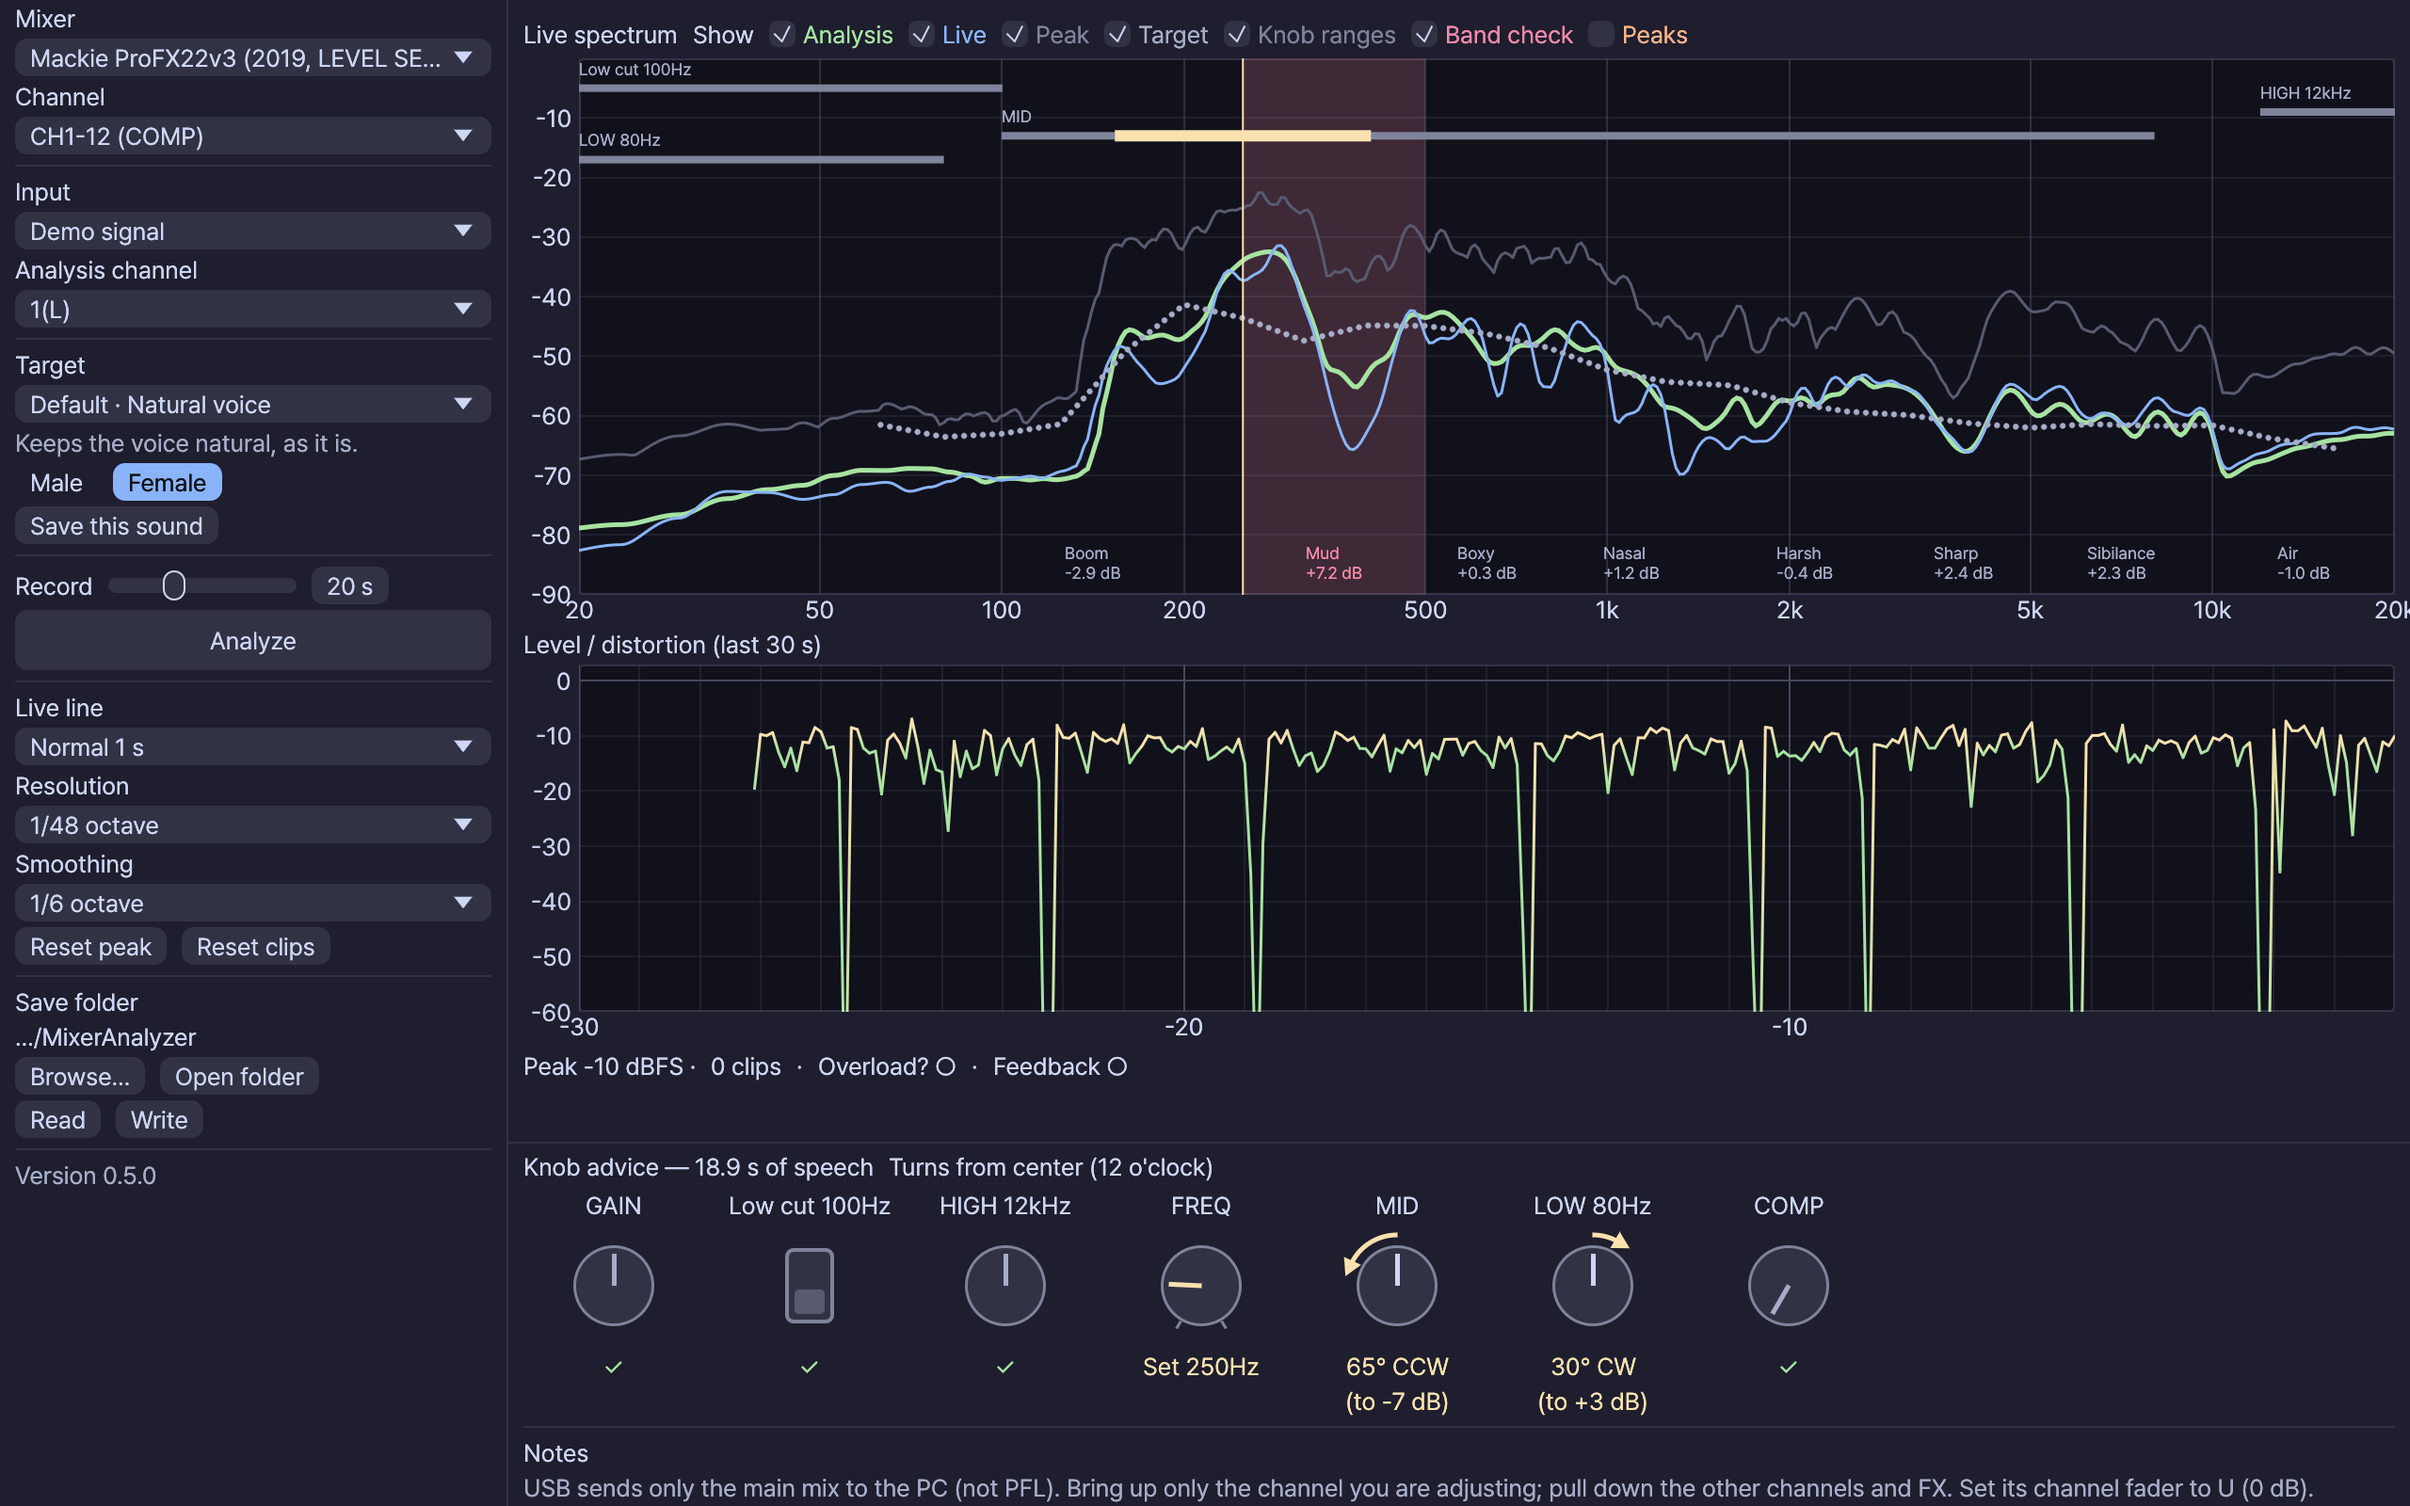
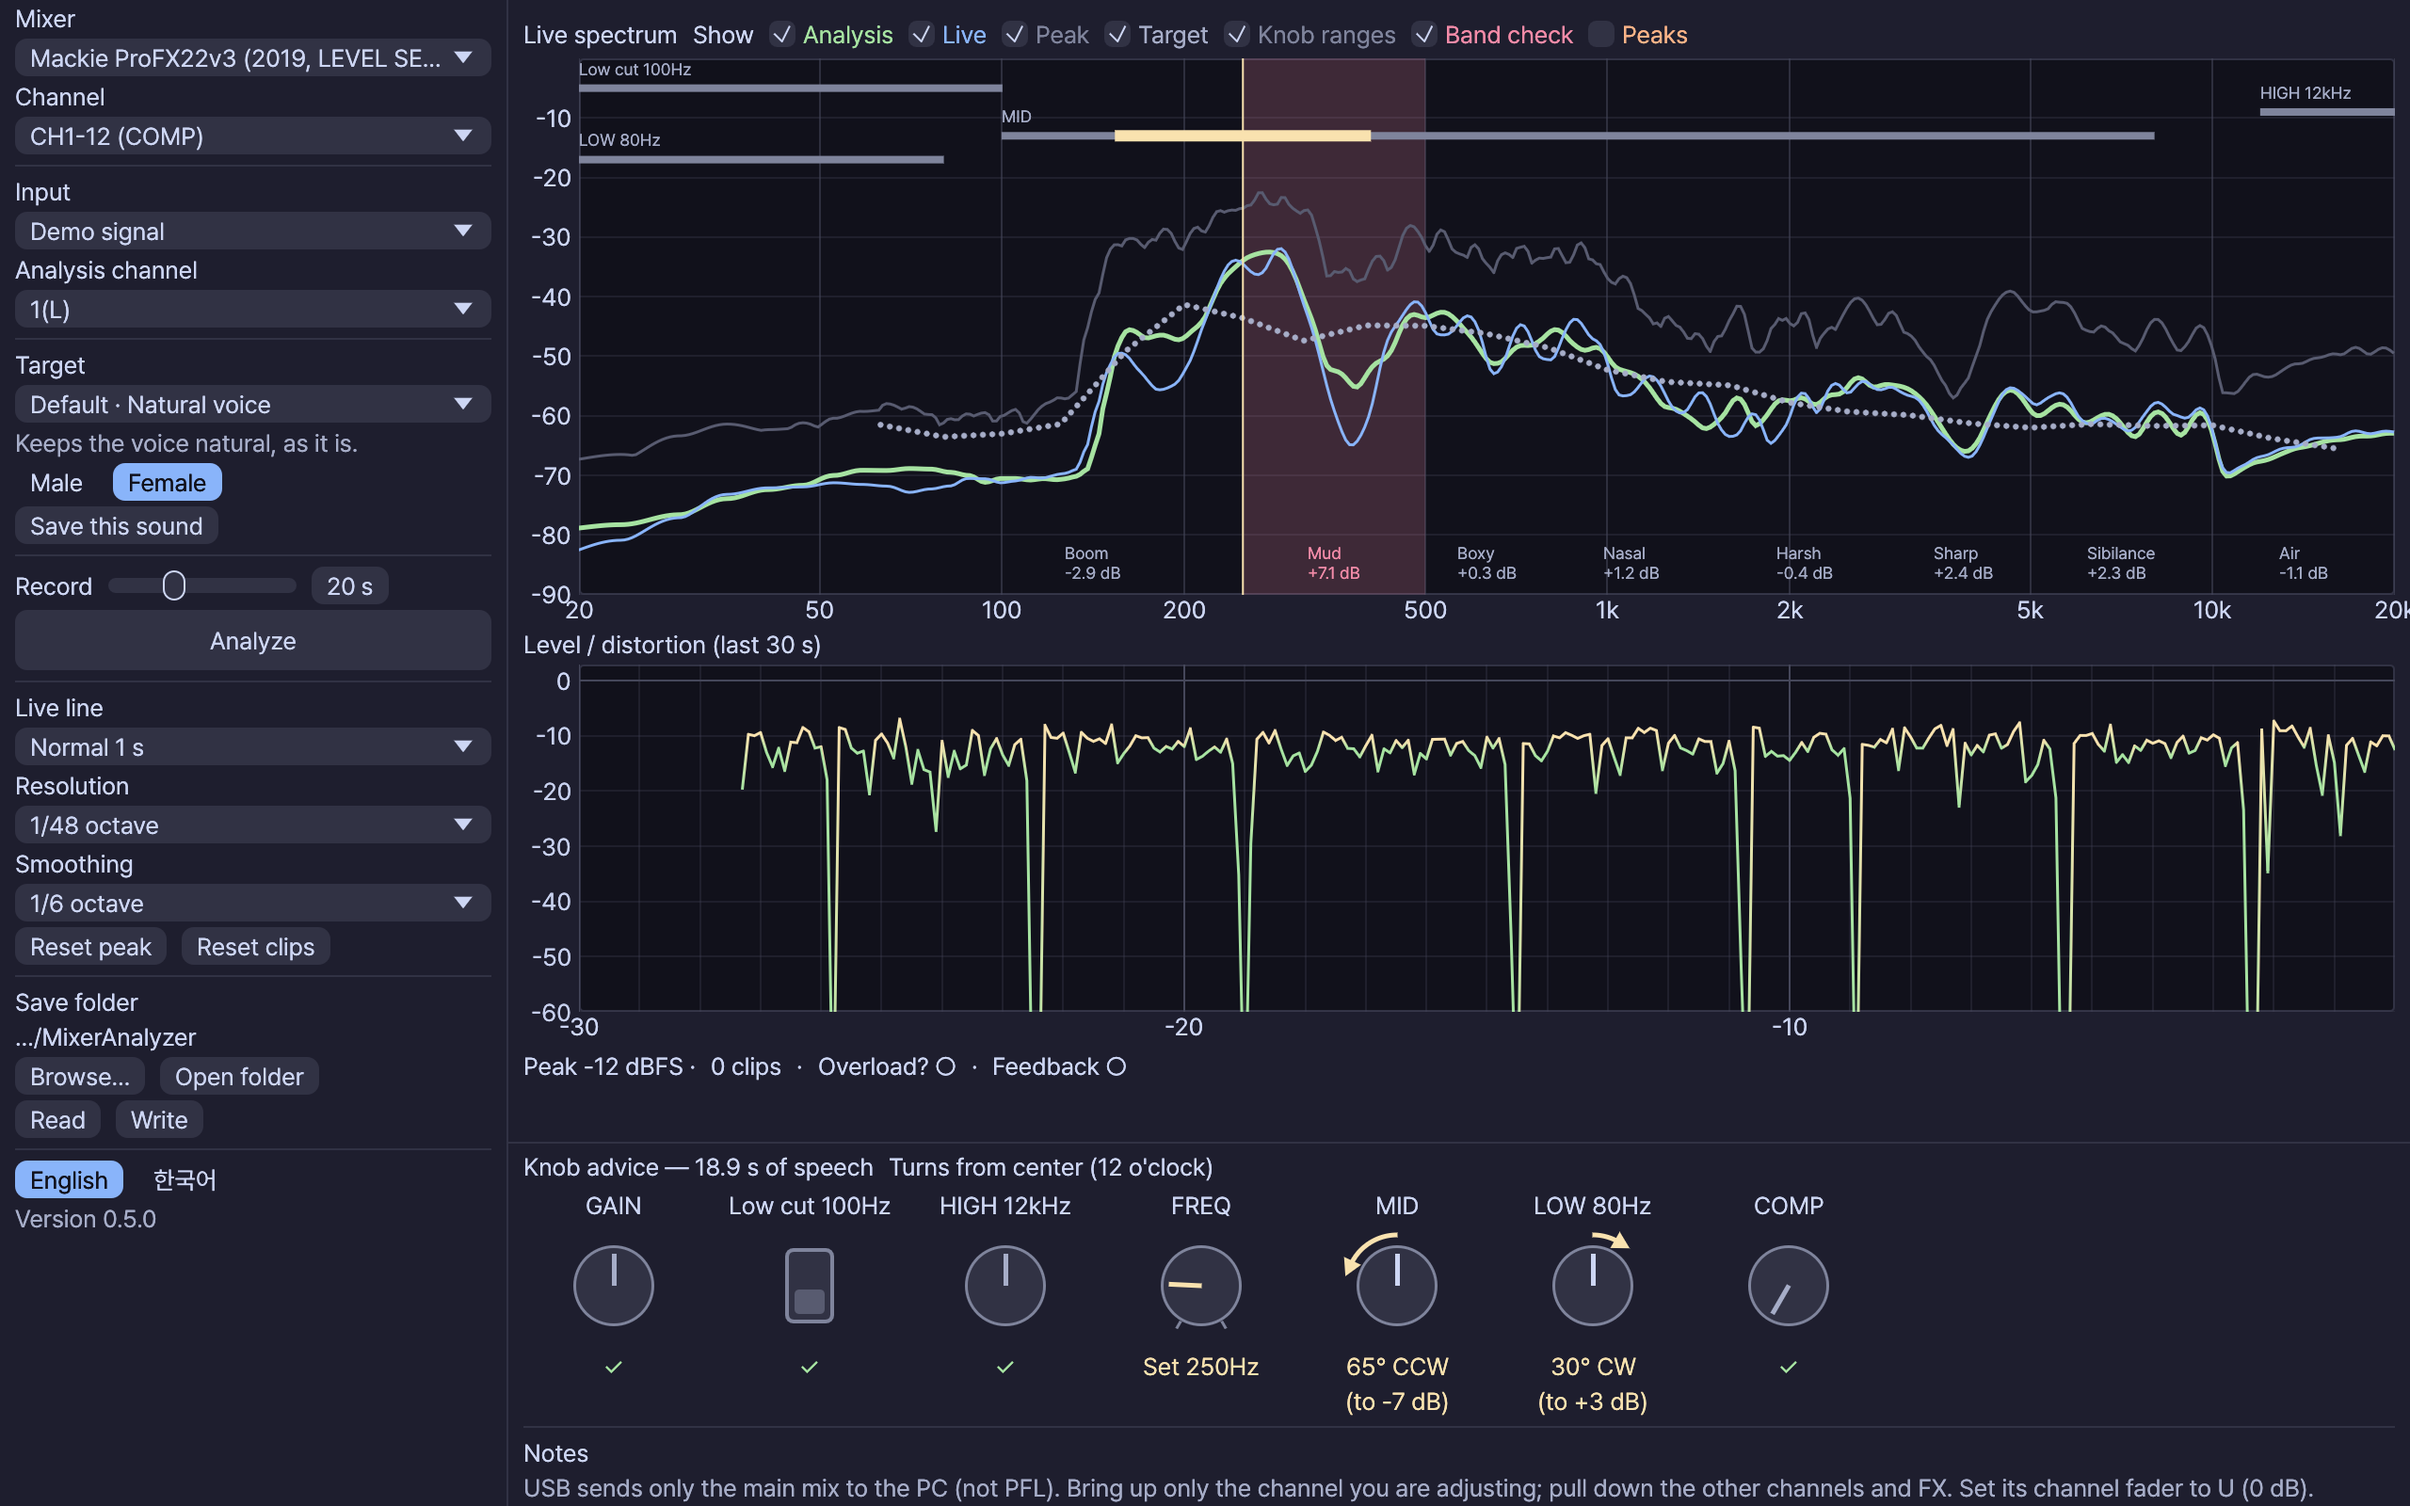
docs: language switch in README and screenshots

diff --git a/README.md b/README.md
@@ -24,6 +24,10 @@ At launch the app checks for a new version and shows **New version available** a
 
 The running version is at the bottom of the left panel.
 
+### Language
+
+The app starts in English. **English** / **한국어** at the bottom of the left panel switches it, and the choice is remembered. Saved settings work in either language.
+
 ## Connecting the mixer
 
 The app hears whatever reaches the computer. Send it the one channel you are setting up. The tip for the picked mixer also shows at the bottom of the window.
